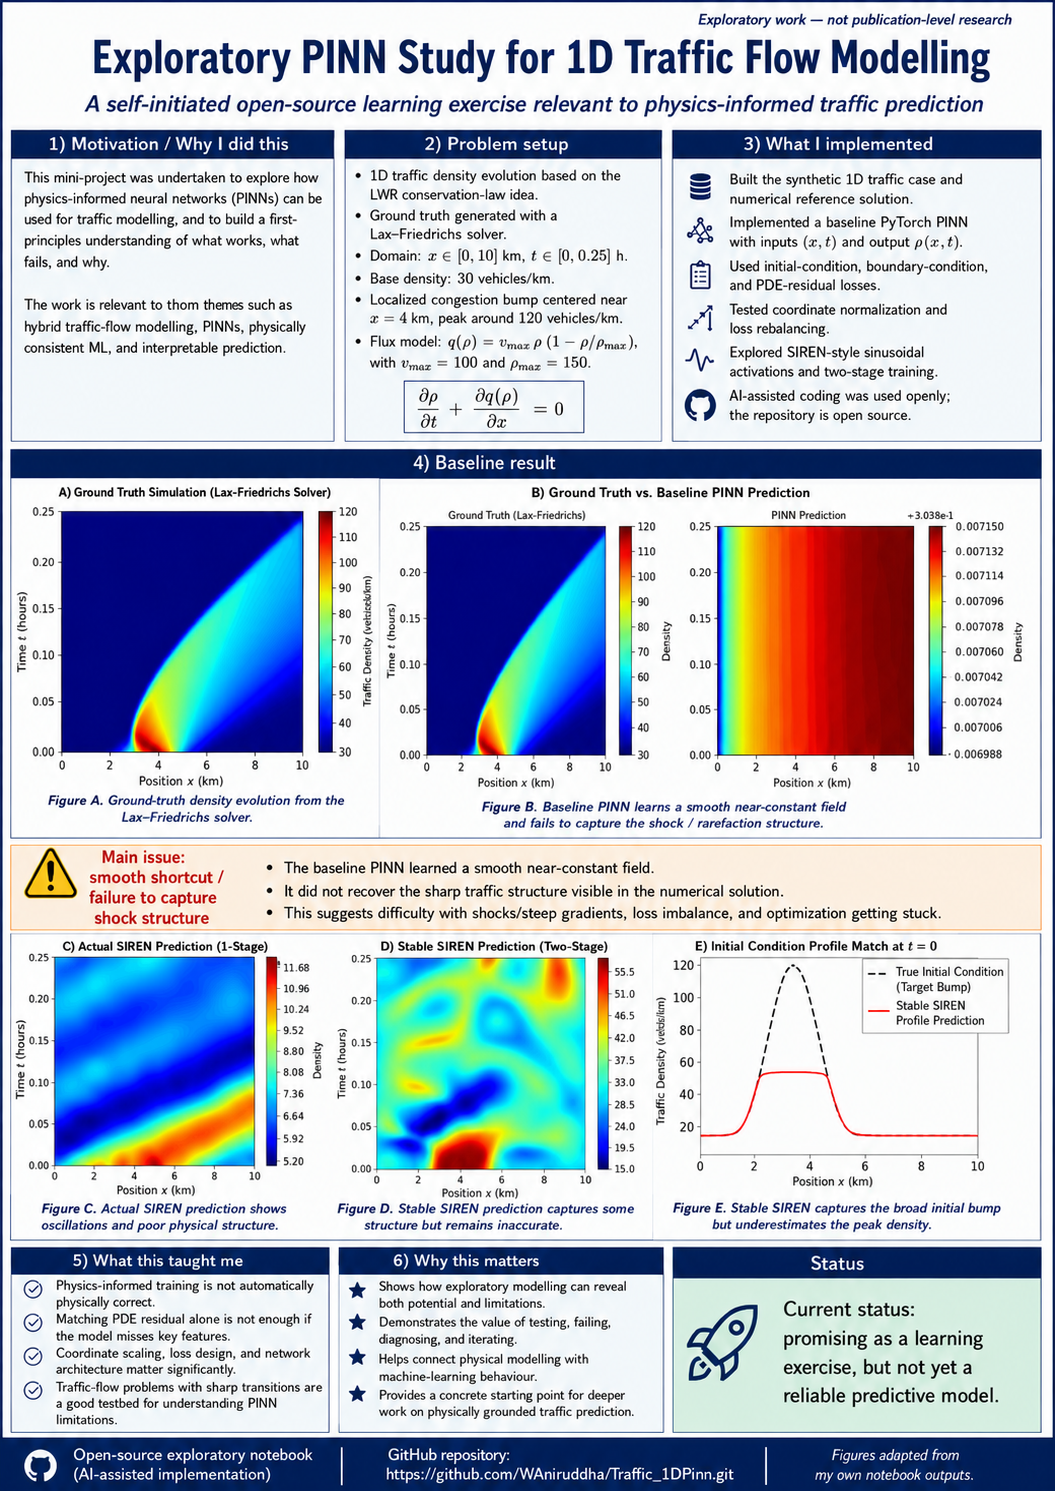
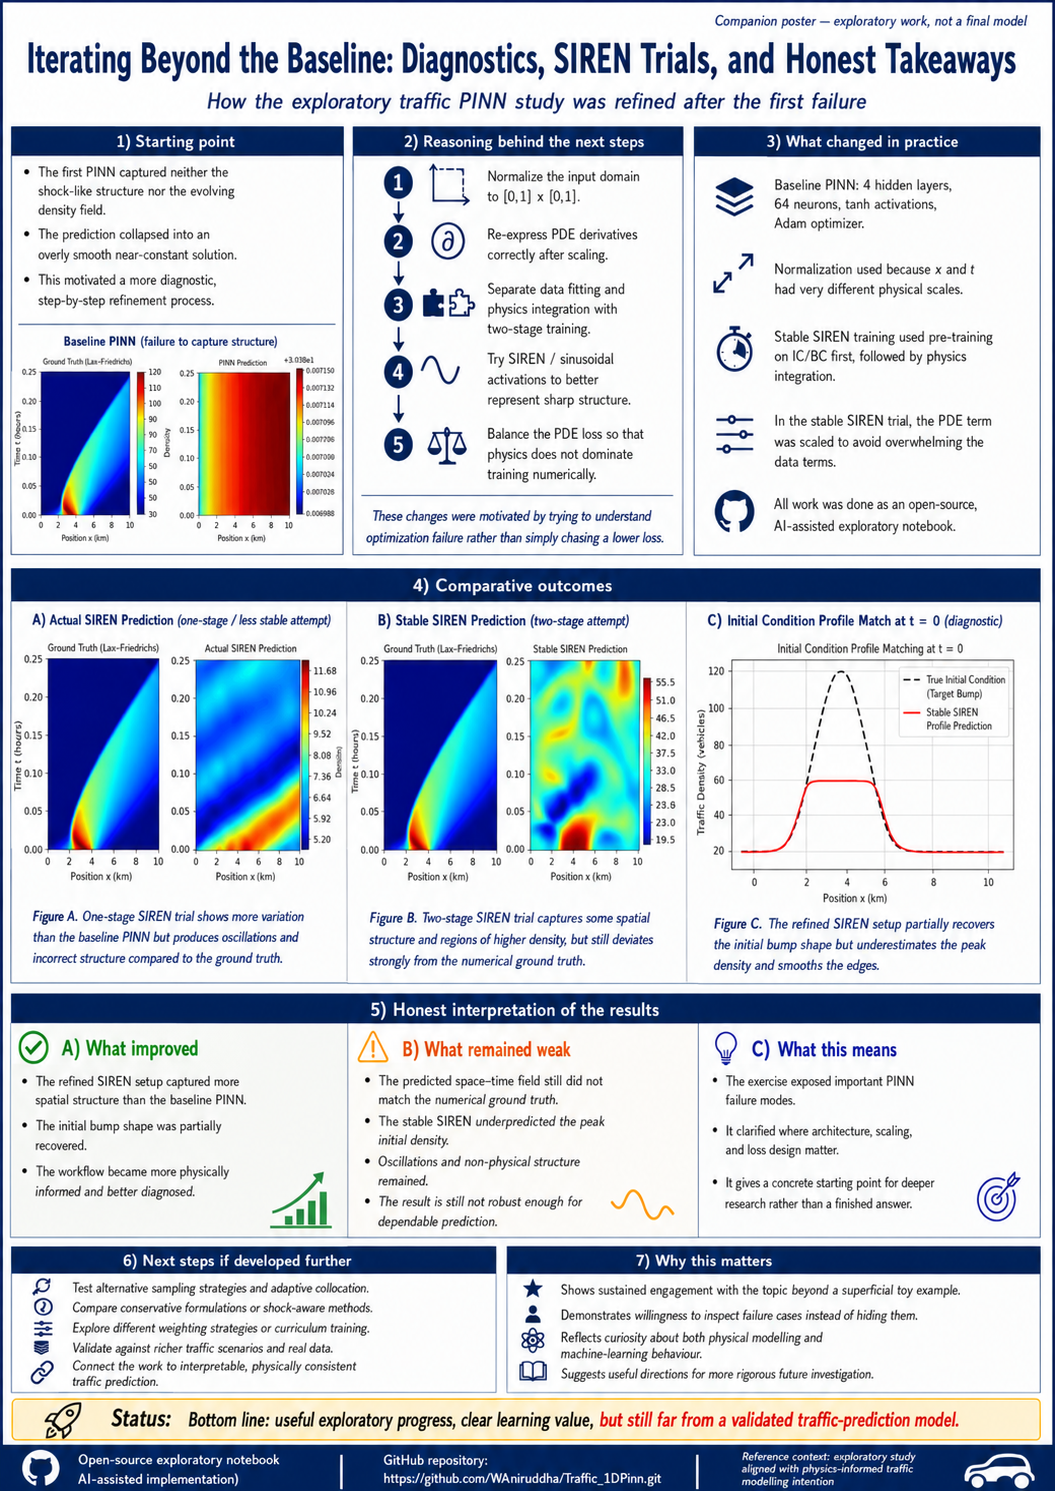
Poster

diff --git a/README.md b/README.md
@@ -1,1 +1,155 @@
-# Traffic_1DPinn
+# **1D Traffic Flow Shock Wave Modeling: Lax-Friedrichs Baseline vs. Physics-Informed Neural Networks (PINN / SIREN)**
+
+This Jupyter Notebook implements, analyzes, and solves the macroscopic **1D Lighthill-Whitham-Richards (LWR)** traffic flow conservation model. It compares a classical finite difference scheme (**Lax-Friedrichs**) against deep learning approaches, highlighting the systematic limitations of Vanilla PINNs (![][image1] activations) and showing how **Sinusoidal Representation Networks (SIREN)** can be stabilized to resolve sharp shock discontinuities.
+
+## **1\. Governing Mathematical Equations**
+
+The continuous macroscopic traffic flow is modeled as a 1D hyperbolic conservation law.
+
+### **1.1 The LWR Conservation Law**
+
+The global conservation of vehicle density over space ![][image2] and time ![][image3] is expressed as:
+
+### **![][image4]1.2 Greenshields Mobility Relationship**
+
+The relationship between traffic flux/flow (![][image5]) and density (![][image6]) is modeled linearly via the Greenshields flux model:
+
+### **![][image7]1.3 Quasi-Linear PDE Residual**
+
+Substituting the flux model into the conservation law yields the quasi-linear hyperbolic partial differential equation used to train the neural network's physics loss:
+
+### **![][image8]1.4 Initial and Boundary Conditions**
+
+* **Initial Condition (at ![][image9]):** A localized gaussian bell-shaped traffic jam peaking at ![][image10] over a baseline of ![][image11]:  
+  ![][image12]  
+  Where ![][image13] and the spread parameter ![][image14].  
+* **Boundary Conditions (at boundaries):** Constrained Dirichlet boundaries modeling steady free-flow states at the edges of the spatial domain:  
+  ![][image15]
+
+## **2\. System Variables & Units**
+
+All dimensional parameters must conform to the following unit scale:
+
+| Variable | Symbol | Dimensional Unit | Description |
+| :---- | :---- | :---- | :---- |
+| **Space** | **![][image2]** | kilometers (![][image16]) | Spatial coordinate along the ![][image17] road segment. |
+| **Time** | **![][image3]** | hours (![][image18]) | Temporal coordinate over ![][image19] (![][image20]). |
+| **Density** | **![][image6]** | vehicles/kilometer (![][image21]) | Density state variable; maximum jam capacity ![][image22]. |
+| **Velocity** | **![][image23]** | kilometers/hour (![][image24]) | Local travel speed; maximum speed limit ![][image25]. |
+| **Flow (Flux)** | **![][image5]** | vehicles/hour (![][image26]) | Throughput flow computed as ![][image27]. |
+
+## **3\. Physical Assumptions**
+
+1. **Continuity Continuum:** Individual vehicles are ignored. Traffic is treated as a continuous compressible 1D fluid.  
+2. **Instantaneous Adjustment:** Drivers adjust their local speed instantly according to the local density without reaction lag.  
+3. **Strict Conservation:** No vehicle creation or destruction occurs along the segment (no off-ramps or on-ramps are modeled).  
+4. **Homogeneity:** The highway features uniform lanes, a constant free-flow speed (![][image28]), and a constant maximum jam density (![][image29]).
+
+## **4\. Architectural Limitations & Insights**
+
+Developing this notebook demonstrates several foundational scientific machine learning pathologies:
+
+* **Spectral Bias & The Zero-Derivative Trap:** Standard fully connected neural networks utilizing smooth ![][image1] activations cannot resolve sharp discontinuities (shocks). During unweighted training, the optimizer finds a lazy local minimum: predicting a constant flat plane where the analytical spatial/temporal derivatives become exactly zero. This perfectly satisfies the PDE residual while completely failing the boundary conditions.  
+* **Periodic Activation Instability (SIREN):** Using sinusoidal layers (![][image30]) allows the network to represent sharp gradients, but pulling out high-frequency spatial weights (![][image31]) via differentiation can cause the PDE loss to explode into the millions (![][image32]). Normalizing coordinates to ![][image33] and applying a tiny physics loss weight scaling factor (![][image34]) are crucial to stabilize training.  
+* **Derivative Peak Clipping:** Even with a stable SIREN, the optimization penalty of holding sharp spatial derivatives over extreme peaks is immense. As a result, the optimizer compromise is to cut off the head of the peak at ![][image9], causing a "tabletop plateau" artifact capping at ![][image35] instead of reaching the true peak of ![][image10].
+
+## **5\. How to Run the Notebook**
+
+### **5.1 Prerequisites & Installation**
+
+Ensure you have Python 3.8+ installed along with the required libraries. Run the following command in your terminal to set up your environment:
+
+pip install numpy matplotlib torch
+
+### **5.2 Execution Sequence**
+
+Open TrafficPinn\_Test1.ipynb in your Jupyter environment and run the code blocks sequentially:
+
+1. **Blocks 1–3 (Meshgrid Construction):** Sets up the spatial (![][image36]) and temporal (![][image37]) grids.  
+2. **Blocks 4–5 (Initial & Boundary Conditions):** Sets up the initial traffic density profile and defines the traffic flow function.  
+3. **Block 6 (Lax-Friedrichs Solver):** Runs the numerical scheme. The print statements will verify a stable CFL condition (![][image38]).  
+4. **Block 7 (Lax-Friedrichs Visualization):** Generates the Ground Truth space-time contour plot showing backward-propagating traffic shocks.  
+5. **Blocks 8–15 (Vanilla PINN Setup):** Constructs and runs the standard fully connected network. It prints training statistics showing the network flatlining in the zero-derivative trap.  
+6. **Block 16 (Min-Max Normalization):** Normalizes inputs to a symmetric ![][image39] coordinate square.  
+7. **Blocks 17–19 (Dynamic PINN Solver):** Updates the PDE loss for normalized inputs and runs a training loop that samples fresh collocation points every epoch to prevent PyTorch graph clearance errors.  
+8. **Blocks 20–22 (SIREN Definition & Pre-Training):** Implements the sinusoidal representation layers with custom weight initialization. Runs a Phase 1 data-only pre-training loop.  
+9. **Block 23 (Full SIREN Physics Loop):** Integrates the normalized physics engine using a balanced loss multiplier (![][image34]).  
+10. **Blocks 24–25 (Visualization & Diagnostics):** Generates comparative contour plots and a 2D line plot at ![][image9] to show the stabilized SIREN profile and its characteristic tabletop truncation.
+
[1 lines of base64/hex data omitted]
+
[1 lines of base64/hex data omitted]
+
[1 lines of base64/hex data omitted]
+
[1 lines of base64/hex data omitted]
+
[1 lines of base64/hex data omitted]
+
[1 lines of base64/hex data omitted]
+
[1 lines of base64/hex data omitted]
+
[1 lines of base64/hex data omitted]
+
[1 lines of base64/hex data omitted]
+
[1 lines of base64/hex data omitted]
+
[1 lines of base64/hex data omitted]
+
[1 lines of base64/hex data omitted]
+
[1 lines of base64/hex data omitted]
+
[1 lines of base64/hex data omitted]
+
[1 lines of base64/hex data omitted]
+
[1 lines of base64/hex data omitted]
+
[1 lines of base64/hex data omitted]
+
[1 lines of base64/hex data omitted]
+
[1 lines of base64/hex data omitted]
+
[1 lines of base64/hex data omitted]
+
[1 lines of base64/hex data omitted]
+
[1 lines of base64/hex data omitted]
+
[1 lines of base64/hex data omitted]
+
[1 lines of base64/hex data omitted]
+
[1 lines of base64/hex data omitted]
+
[1 lines of base64/hex data omitted]
+
[1 lines of base64/hex data omitted]
+
[1 lines of base64/hex data omitted]
+
[1 lines of base64/hex data omitted]
+
[1 lines of base64/hex data omitted]
+
[1 lines of base64/hex data omitted]
+
[1 lines of base64/hex data omitted]
+
[1 lines of base64/hex data omitted]
+
[1 lines of base64/hex data omitted]
+
[1 lines of base64/hex data omitted]
+
[1 lines of base64/hex data omitted]
+
[1 lines of base64/hex data omitted]
+
[1 lines of base64/hex data omitted]
+
[1 lines of base64/hex data omitted]